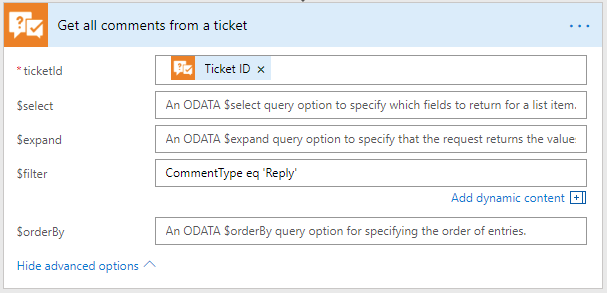
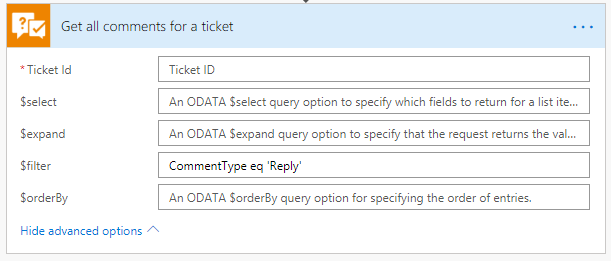
"Get all comments": update screenshot, rename parameter

Changed region(s): [[0.0, 0.0, 1.0, 1.0]]

diff --git a/Online/API/flow-actions.rst b/Online/API/flow-actions.rst
@@ -461,8 +461,8 @@ Gets all comments for a ticket with specified Id.
     *  -  Parameter
        -  Description
        -  Example
-    *  -  ticketId
-       -  Ticket ID
+    *  -  Ticket Id
+       -  Ticket identifier
        -  1
     *  -  $select
        -  An `ODATA`_ $select query option to specify which fields to return for a list item. You can use * to return all available fields.
